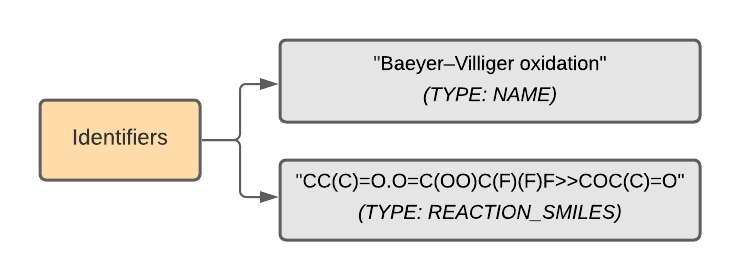
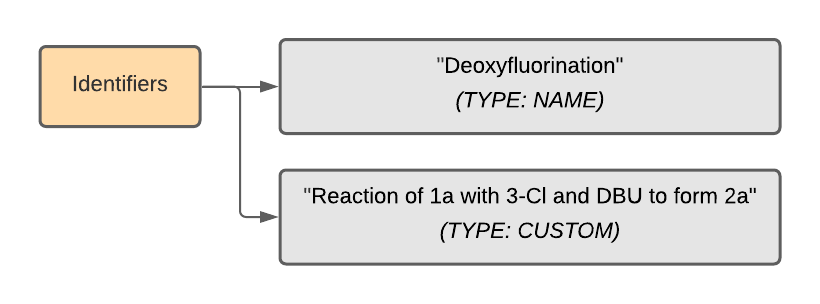
progress

Changed region(s): [[0.0311, 0.1143, 0.9635, 0.8857], [0.4662, 0.7143, 0.8392, 0.8], [0.5595, 0.2857, 0.777, 0.3714]]

diff --git a/docs/schema.rst b/docs/schema.rst
@@ -59,7 +59,17 @@ for clarity):
 Graphically, the ``Reaction`` message has a hierarchy of submessages
 and fields that looks like this:
 
-The following subsections go through each field in detail.
+.. image:: images/reaction.png
+
+The following subsections go through each field in detail. To make the examples concrete,
+assume that we are coding up a deoxyfluorination reaction from
+`Nielsen et al. <https://pubs.acs.org/doi/10.1021/jacs.8b01523>`_
+with the following scheme (copied from the
+`Supporting Information <https://pubs.acs.org/doi/suppl/10.1021/jacs.8b01523/suppl_file/ja8b01523_si_001.pdf>`_):
+
+.. image:: images/nielsen_scheme.png
+
+Specifically, we'll choose **3-Cl** as the sulfonyl fluoride and DBU as the base.
 
 Identifiers
 ===========
@@ -67,11 +77,21 @@ Identifiers
 A repeated field (list) of ``ReactionIdentifier`` messages that
 include reaction names, reaction SMILES, etc.
 
+.. image:: images/identifiers.png
+
 Inputs
 ======
 
-A map (dictionary) that connects  ``ReactionInput``: pure components or stock solutions
+A map (dictionary) that labels ``ReactionInput`` messages with simple string names.
+
+.. image:: images/inputs.png
+
+Each ``ReactionInput`` message describes pure components or stock solutions
 that are added to the reaction vessel as reactants, reagents, solvents, etc.
+Every input component requires its own ``CompoundIdentifier`` list as well as
+an associated ``Amount`` message. (Note that many additional subfields are not shown.)
+
+.. image:: images/input_detail.png
 
 Setup
 =====
